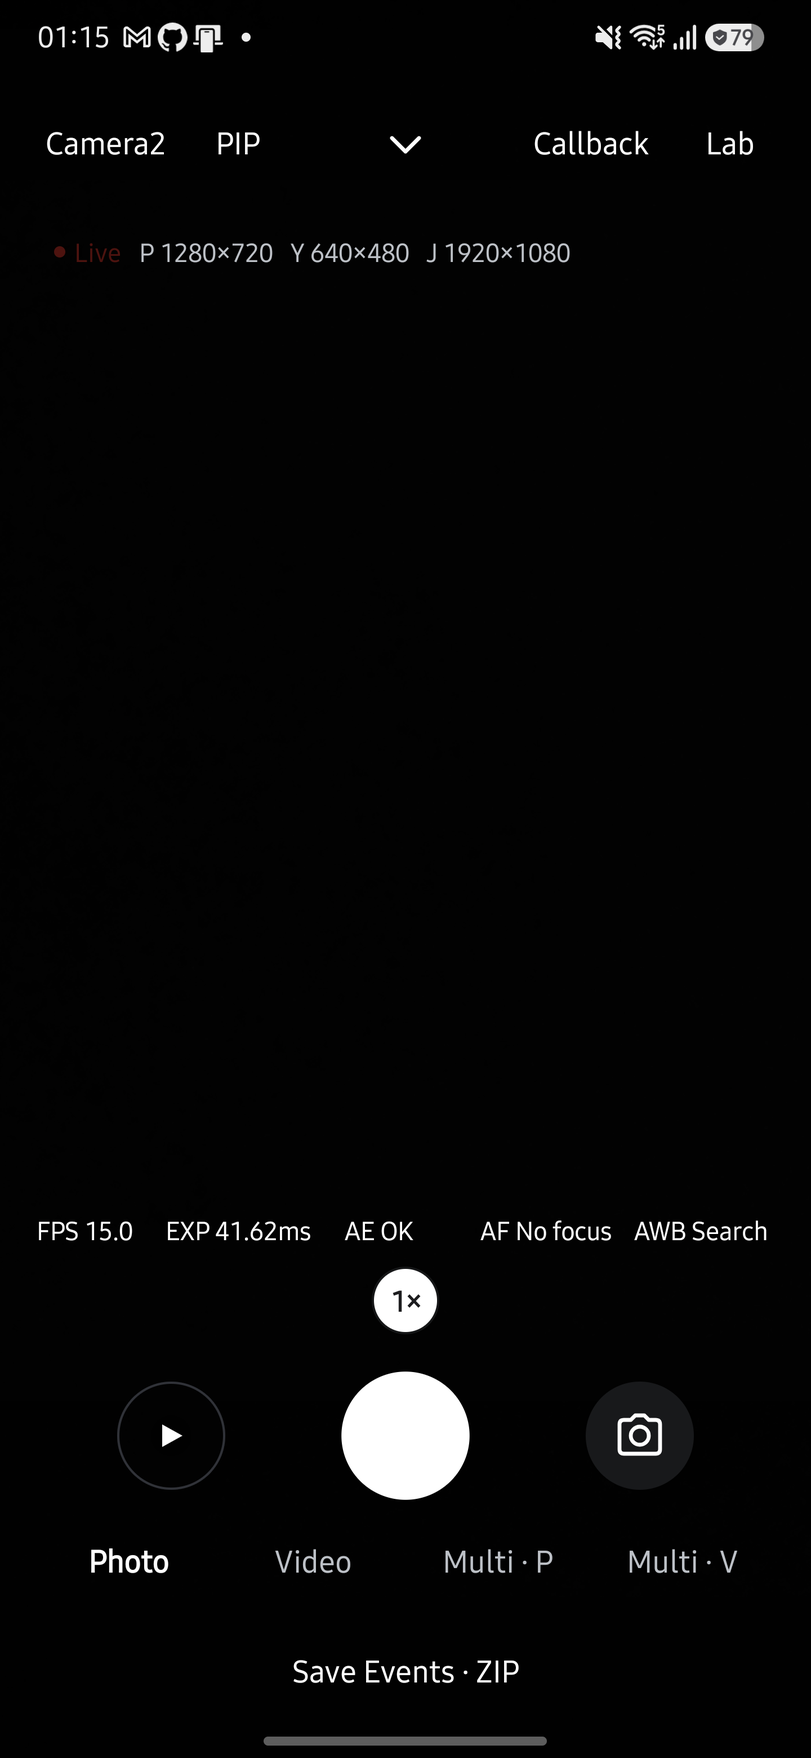
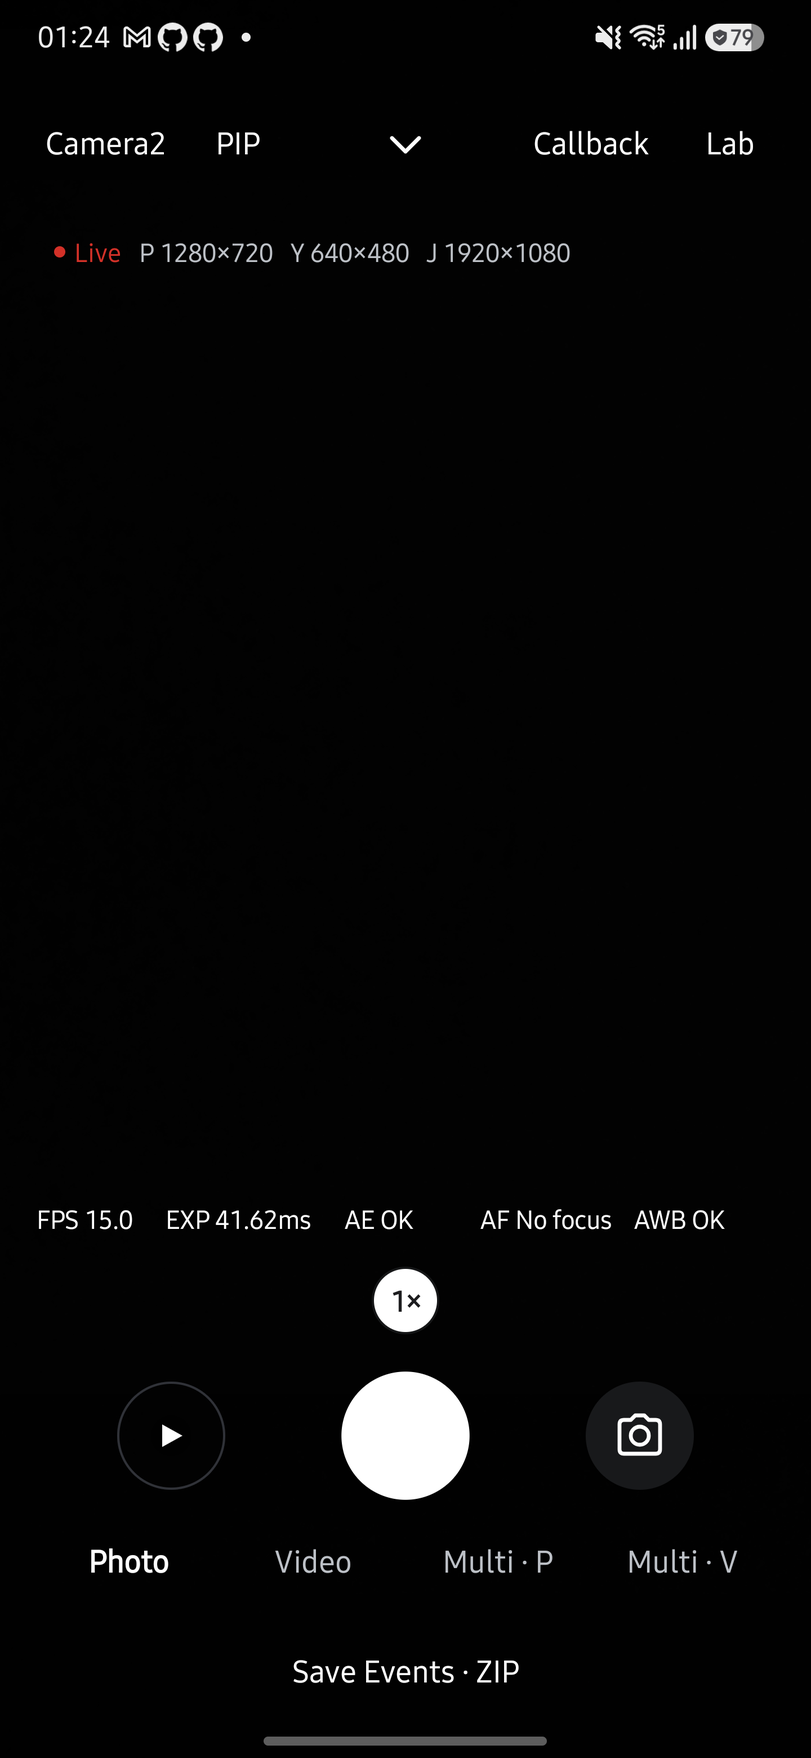
Balance spacing above the live zoom control

diff --git a/docs/architecture.html b/docs/architecture.html
@@ -131,7 +131,7 @@
 <summary>근거와 검토 정보</summary><ul>
 <li>근거 파일: <code>app/src/main/java/dev/halcamera/cli/CommandCoordinator.kt</code>, <code>tools/halcam/halcam/cli.py</code>, <code>app/src/main/java/dev/halcamera/MainActivity.kt</code>, <code>app/src/main/java/dev/halcamera/ConcurrentCameraActivity.kt</code>, <code>app/src/main/java/dev/halcamera/WorkbenchActivity.kt</code>, <code>app/src/main/java/dev/halcamera/camera/CameraEngine.kt</code>, <code>app/src/main/java/dev/halcamera/telemetry/Telemetry.kt</code>, <code>app/src/main/java/dev/halcamera/telemetry/FlightRecorder.kt</code>, <code>app/src/main/java/dev/halcamera/benchmark/domain/BenchmarkRunner.kt</code>, <code>app/src/main/java/dev/halcamera/benchmark/domain/RunAssembler.kt</code>, <code>app/src/main/java/dev/halcamera/benchmark/BenchmarkActivity.kt</code>, <code>app/src/main/java/dev/halcamera/benchmark/HistoryActivity.kt</code>, <code>app/src/main/java/dev/halcamera/benchmark/domain/RegressionDetector.kt</code></li>
 <li>근거 수준: 코드 확인</li>
-<li>검토 2026-10-10 @ <code>11271eec</code> · Codex source comparison; not independent human approval</li>
+<li>검토 2026-10-10 @ <code>102ac1dd</code> · Codex spacing/source comparison; not independent human approval</li>
 </ul>
 </details><!-- omm:end id=overview --><h2 id="전체-구조도">전체 구조도</h2>
 <p>화살표는 코드를 사용하는 방향입니다. 이벤트와 파일이 이동하는 순서는 <a href="#이벤트와-결과가-전달되는-경로">데이터 흐름</a>에서 확인하세요.</p>
@@ -272,7 +272,7 @@
 <summary>근거와 검토 정보</summary><ul>
 <li>근거 파일: <code>app/src/main/java/dev/halcamera/cli/CommandCoordinator.kt</code>, <code>app/src/main/java/dev/halcamera/cli/LiveController.kt</code>, <code>app/src/main/java/dev/halcamera/cli/BenchmarkController.kt</code>, <code>app/src/main/java/dev/halcamera/cli/CliLibrary.kt</code>, <code>app/src/main/java/dev/halcamera/MainCliBridge.kt</code>, <code>app/src/main/java/dev/halcamera/DualCliBridge.kt</code>, <code>app/src/main/java/dev/halcamera/camera/CameraEngine.kt</code>, <code>app/src/main/java/dev/halcamera/camera/BenchmarkRecorder.kt</code>, <code>app/src/main/java/dev/halcamera/benchmark/platform/EnvironmentProbe.kt</code>, <code>app/src/main/java/dev/halcamera/benchmark/BenchmarkActivity.kt</code>, <code>app/src/main/java/dev/halcamera/benchmark/HistoryActivity.kt</code>, <code>app/src/main/java/dev/halcamera/benchmark/domain/RunIndex.kt</code>, <code>app/src/main/java/dev/halcamera/benchmark/domain/BenchmarkCsv.kt</code>, <code>app/src/main/java/dev/halcamera/benchmark/platform/BenchmarkReport.kt</code>, <code>app/src/main/java/dev/halcamera/benchmark/domain/BenchmarkReportCodec.kt</code>, <code>app/src/main/java/dev/halcamera/telemetry/FlightRecorder.kt</code>, <code>app/src/main/java/dev/halcamera/MainActivity.kt</code>, <code>app/src/main/java/dev/halcamera/ConcurrentCameraActivity.kt</code>, <code>app/src/main/java/dev/halcamera/camera/ConcurrentSession.kt</code>, <code>app/src/main/java/dev/halcamera/camera/RecentMediaThumbnail.kt</code>, <code>app/src/main/java/dev/halcamera/ui/RecentMediaButton.kt</code>, <code>app/src/main/java/dev/halcamera/ui/Look.kt</code>, <code>app/src/main/java/dev/halcamera/cts/recording/BasicRecordingRules.kt</code>, <code>app/src/main/java/dev/halcamera/cts/CtsEntryActivity.kt</code>, <code>app/src/main/java/dev/halcamera/cts/vendored/VendoredCaseActivity.kt</code>, <code>app/src/main/java/dev/halcamera/cts/vendored/VendoredCtsListActivity.kt</code>, <code>app/src/main/java/dev/halcamera/cts/CtsCaseActivity.kt</code>, <code>app/src/main/java/dev/halcamera/cts/CtsCaseListActivity.kt</code>, <code>app/src/main/java/dev/halcamera/cts/suite/CtsChecklistActivity.kt</code>, <code>app/src/main/java/dev/halcamera/cts/suite/CtsSuiteRunActivity.kt</code>, <code>app/src/main/java/dev/halcamera/cts/suite/SuitePlan.kt</code>, <code>app/src/main/java/dev/halcamera/cts/suite/SuiteReport.kt</code>, <code>app/src/main/java/dev/halcamera/cts/CtsCatalog.kt</code>, <code>app/src/main/java/dev/halcamera/cts/CtsRunner.kt</code>, <code>app/src/main/java/dev/halcamera/cts/CameraCaseRunner.kt</code>, <code>app/src/main/java/dev/halcamera/cts/Camera2Ops.kt</code>, <code>app/src/main/java/dev/halcamera/cts/onoff/FastOnOffRules.kt</code>, <code>app/src/main/java/dev/halcamera/cts/switching/SwitchingRules.kt</code>, <code>app/src/main/java/dev/halcamera/cts/sizes/AllSizeOnOffRules.kt</code>, <code>app/src/main/java/dev/halcamera/cts/combination/StillPreviewCombinationRules.kt</code>, <code>app/src/main/java/dev/halcamera/cts/snapshot/VideoSnapshotRules.kt</code>, <code>app/src/main/java/dev/halcamera/CameraProbeActivity.kt</code>, <code>app/src/main/java/dev/halcamera/camera/CameraProbe.kt</code>, <code>app/src/main/java/dev/halcamera/camera/CameraProbeReader.kt</code></li>
 <li>근거 수준: 코드 확인</li>
-<li>검토 2026-10-10 @ <code>11271eec</code> · Codex source comparison; not independent human approval</li>
+<li>검토 2026-10-10 @ <code>102ac1dd</code> · Codex spacing/source comparison; not independent human approval</li>
 </ul>
 </details><!-- omm:end id=module-roles --><h2 id="주요-실행-흐름">주요 실행 흐름</h2>
 <!-- omm:begin id=runtime-flow --><p><strong>실행 실패는 러너 결과에서, 측정값의 차이는 이벤트와 계산 규칙에서 확인하세요.</strong> 벤치마크의 입력은 카메라 콜백 이벤트와 러너가 기록한 실행 시각입니다.</p>
@@ -583,7 +583,7 @@
 <summary>근거와 검토 정보</summary><ul>
 <li>근거 파일: <code>app/src/main/java/dev/halcamera/cli/CliProvider.kt</code>, <code>app/src/main/java/dev/halcamera/cli/CommandCoordinator.kt</code>, <code>app/src/main/java/dev/halcamera/cli/CommandStore.kt</code>, <code>app/src/main/java/dev/halcamera/camera/CameraEngine.kt</code>, <code>app/src/main/java/dev/halcamera/camera/ConcurrentSession.kt</code>, <code>app/src/main/java/dev/halcamera/camera/CameraEndpointResolver.kt</code>, <code>app/src/main/java/dev/halcamera/telemetry/IncidentExporter.kt</code>, <code>app/src/main/java/dev/halcamera/benchmark/domain/BenchmarkRunner.kt</code>, <code>app/src/main/java/dev/halcamera/benchmark/domain/RunValidity.kt</code>, <code>app/src/main/java/dev/halcamera/benchmark/domain/RegressionRules.kt</code>, <code>app/src/main/java/dev/halcamera/benchmark/platform/BenchmarkReport.kt</code>, <code>app/src/main/java/dev/halcamera/benchmark/domain/BenchmarkReportCodec.kt</code>, <code>app/src/main/java/dev/halcamera/benchmark/platform/BenchmarkStore.kt</code>, <code>app/src/main/java/dev/halcamera/benchmark/domain/BenchmarkIndex.kt</code>, <code>app/src/main/java/dev/halcamera/benchmark/domain/AtomicFiles.kt</code></li>
 <li>근거 수준: 코드 확인</li>
-<li>검토 2026-10-10 @ <code>11271eec</code> · Codex source comparison; not independent human approval</li>
+<li>검토 2026-10-10 @ <code>102ac1dd</code> · Codex spacing/source comparison; not independent human approval</li>
 </ul>
 </details><!-- omm:end id=constraints --><h2 id="변경-후-검증">변경 후 검증</h2>
 <p>Android 의존성이 없는 러너와 평가 로직은 JVM 단위 테스트로 확인할 수 있습니다. 저장소 루트에서 실행하세요.</p>
@@ -627,7 +627,7 @@
 <tr>
 <td>구조 원본 <code>overall-architecture</code></td>
 <td>최신</td>
-<td>검토 2026-10-10 @ <code>11271eec</code> · Codex source comparison; not independent human approval</td>
+<td>검토 2026-10-10 @ <code>102ac1dd</code> · Codex spacing/source comparison; not independent human approval</td>
 </tr>
 <tr>
 <td>구조 원본 <code>state-transitions</code></td>
@@ -652,12 +652,12 @@
 <tr>
 <td>원고 <code>overview</code></td>
 <td>최신</td>
-<td>검토 2026-10-10 @ <code>11271eec</code> · Codex source comparison; not independent human approval</td>
+<td>검토 2026-10-10 @ <code>102ac1dd</code> · Codex spacing/source comparison; not independent human approval</td>
 </tr>
 <tr>
 <td>원고 <code>module-roles</code></td>
 <td>최신</td>
-<td>검토 2026-10-10 @ <code>11271eec</code> · Codex source comparison; not independent human approval</td>
+<td>검토 2026-10-10 @ <code>102ac1dd</code> · Codex spacing/source comparison; not independent human approval</td>
 </tr>
 <tr>
 <td>원고 <code>runtime-flow</code></td>
@@ -667,7 +667,7 @@
 <tr>
 <td>원고 <code>constraints</code></td>
 <td>최신</td>
-<td>검토 2026-10-10 @ <code>11271eec</code> · Codex source comparison; not independent human approval</td>
+<td>검토 2026-10-10 @ <code>102ac1dd</code> · Codex spacing/source comparison; not independent human approval</td>
 </tr>
 </tbody></table>
 <!-- omm:end id=status --><p>표의 <code>최신</code>은 기록된 근거와 원고가 검토 이후 바뀌지 않았다는 뜻입니다. 모든 기기에서 동작을 검증했다는 뜻은 아닙니다.</p>

diff --git a/docs/engine.html b/docs/engine.html
@@ -170,7 +170,7 @@
 <summary>근거와 검토 정보</summary><ul>
 <li>근거 파일: <code>app/src/main/java/dev/halcamera/camera/Camera2Engine.kt</code>, <code>app/src/main/java/dev/halcamera/camera/Camera2StillCapture.kt</code>, <code>app/src/main/java/dev/halcamera/camera/Camera2LiveRecorder.kt</code>, <code>app/src/main/java/dev/halcamera/camera/TouchMeterRequests.kt</code>, <code>app/src/main/java/dev/halcamera/camera/CameraXEngine.kt</code>, <code>app/src/main/java/dev/halcamera/camera/CameraXPipSession.kt</code>, <code>app/src/main/java/dev/halcamera/camera/CameraXStillCapture.kt</code>, <code>app/src/main/java/dev/halcamera/camera/CameraXLiveRecorder.kt</code>, <code>app/src/main/java/dev/halcamera/camera/CameraXControls.kt</code>, <code>app/src/main/java/dev/halcamera/MainActivity.kt</code>, <code>app/src/main/java/dev/halcamera/camera/ConcurrentSession.kt</code>, <code>app/src/main/java/dev/halcamera/camera/LivePipSession.kt</code>, <code>app/src/main/java/dev/halcamera/ConcurrentCameraActivity.kt</code></li>
 <li>근거 수준: 코드 확인</li>
-<li>검토 2026-10-10 @ <code>11271eec</code> · Codex source comparison; not independent human approval</li>
+<li>검토 2026-10-10 @ <code>102ac1dd</code> · Codex spacing/source comparison; not independent human approval</li>
 </ul>
 </details><!-- omm:end id=comparison --><h3 id="기기에서-관찰한-차이">기기에서 관찰한 차이</h3>
 <p>Galaxy S25+에서 확인한 CameraX 관찰 결과와 검증 조건은 <a href="evidence.html#camerax-기기-관찰">Validation</a>에 있습니다.</p>
@@ -356,7 +356,7 @@
 <summary>근거와 검토 정보</summary><ul>
 <li>근거 파일: <code>app/src/main/java/dev/halcamera/camera/CameraEngine.kt</code>, <code>app/src/main/java/dev/halcamera/camera/Camera2Engine.kt</code>, <code>app/src/main/java/dev/halcamera/camera/CameraXEngine.kt</code>, <code>app/src/main/java/dev/halcamera/MainActivity.kt</code>, <code>app/src/main/java/dev/halcamera/ui/LiveControlBar.kt</code>, <code>app/src/main/java/dev/halcamera/ui/FocusRing.kt</code>, <code>app/src/main/java/dev/halcamera/camera/LiveControls.kt</code>, <code>app/src/main/java/dev/halcamera/benchmark/BenchmarkActivity.kt</code>, <code>app/src/main/java/dev/halcamera/benchmark/domain/StartCardPresenter.kt</code>, <code>app/src/main/java/dev/halcamera/cli/LiveController.kt</code>, <code>app/src/main/java/dev/halcamera/telemetry/Telemetry.kt</code></li>
 <li>근거 수준: 코드 확인</li>
-<li>검토 2026-10-10 @ <code>11271eec</code> · Codex source comparison; not independent human approval</li>
+<li>검토 2026-10-10 @ <code>102ac1dd</code> · Codex spacing/source comparison; not independent human approval</li>
 </ul>
 </details><!-- omm:end id=contract --></details><h2 id="camera2-엔진">Camera2 엔진</h2>
 <details id="camera2-internals" data-search-section>
@@ -675,7 +675,7 @@
 <summary>근거와 검토 정보</summary><ul>
 <li>근거 파일: <code>app/src/main/java/dev/halcamera/camera/Camera2Engine.kt</code>, <code>app/src/main/java/dev/halcamera/camera/LivePipSession.kt</code>, <code>app/src/main/java/dev/halcamera/camera/CameraOpenRetry.kt</code>, <code>app/src/main/java/dev/halcamera/camera/CameraReleaseWait.kt</code>, <code>app/src/main/java/dev/halcamera/camera/LiveStreamSettings.kt</code>, <code>app/src/main/java/dev/halcamera/camera/LiveStabilization.kt</code>, <code>app/src/main/java/dev/halcamera/camera/LiveStreamCapabilities.kt</code>, <code>app/src/main/java/dev/halcamera/camera/LiveSessionCheck.kt</code>, <code>app/src/main/java/dev/halcamera/camera/Camera2StillCapture.kt</code>, <code>app/src/main/java/dev/halcamera/camera/Camera2LiveRecorder.kt</code>, <code>app/src/main/java/dev/halcamera/camera/Camera2VideoSnapshot.kt</code>, <code>app/src/main/java/dev/halcamera/camera/VideoSnapshot.kt</code>, <code>app/src/main/java/dev/halcamera/camera/BenchmarkRecorder.kt</code>, <code>app/src/main/java/dev/halcamera/camera/PreviewBufferRelay.kt</code>, <code>app/src/main/java/dev/halcamera/camera/RecordingBufferRelay.kt</code>, <code>app/src/main/java/dev/halcamera/camera/StreamConfiguration.kt</code>, <code>app/src/main/java/dev/halcamera/camera/StillPair.kt</code>, <code>app/src/main/java/dev/halcamera/camera/YuvPacking.kt</code>, <code>app/src/main/java/dev/halcamera/camera/RawFrame.kt</code>, <code>app/src/main/java/dev/halcamera/camera/DngOutput.kt</code>, <code>app/src/main/java/dev/halcamera/camera/StillEncoding.kt</code>, <code>app/src/main/java/dev/halcamera/camera/MediaLibrary.kt</code>, <code>app/src/main/java/dev/halcamera/camera/LiveControls.kt</code>, <code>app/src/main/java/dev/halcamera/camera/LiveControlRequests.kt</code>, <code>app/src/main/java/dev/halcamera/camera/ManualControls.kt</code>, <code>app/src/main/java/dev/halcamera/camera/ManualControlRequests.kt</code>, <code>app/src/main/java/dev/halcamera/camera/TouchMeter.kt</code>, <code>app/src/main/java/dev/halcamera/camera/TouchMeterRequests.kt</code></li>
 <li>근거 수준: 코드 확인</li>
-<li>검토 2026-10-10 @ <code>11271eec</code> · Codex source comparison; not independent human approval</li>
+<li>검토 2026-10-10 @ <code>102ac1dd</code> · Codex spacing/source comparison; not independent human approval</li>
 </ul>
 </details><!-- omm:end id=camera2 --></details><h2 id="camerax-엔진">CameraX 엔진</h2>
 <details id="camerax-internals" data-search-section>
@@ -814,7 +814,7 @@
 <summary>근거와 검토 정보</summary><ul>
 <li>근거 파일: <code>app/src/main/java/dev/halcamera/camera/CameraXEngine.kt</code>, <code>app/src/main/java/dev/halcamera/camera/CameraXPipSession.kt</code>, <code>app/src/main/java/dev/halcamera/camera/CameraXStillCapture.kt</code>, <code>app/src/main/java/dev/halcamera/camera/CameraXLiveRecorder.kt</code>, <code>app/src/main/java/dev/halcamera/camera/CameraXVideoSnapshot.kt</code>, <code>app/src/main/java/dev/halcamera/camera/VideoSnapshot.kt</code>, <code>app/src/main/java/dev/halcamera/camera/CameraXControls.kt</code>, <code>app/src/main/java/dev/halcamera/camera/StillEncoding.kt</code>, <code>app/src/main/java/dev/halcamera/camera/YuvPacking.kt</code>, <code>app/src/main/java/dev/halcamera/camera/MediaLibrary.kt</code>, <code>app/src/main/java/dev/halcamera/camera/StreamConfiguration.kt</code>, <code>app/src/main/java/dev/halcamera/camera/LiveControls.kt</code>, <code>app/src/main/java/dev/halcamera/camera/TouchMeter.kt</code>, <code>app/build.gradle.kts</code></li>
 <li>근거 수준: 코드 확인</li>
-<li>검토 2026-10-10 @ <code>11271eec</code> · Codex source comparison; not independent human approval</li>
+<li>검토 2026-10-10 @ <code>102ac1dd</code> · Codex spacing/source comparison; not independent human approval</li>
 </ul>
 </details><!-- omm:end id=camerax --></details><h2 id="문서-검토-상태">문서 검토 상태</h2>
 <details id="detail-f9c230aa61" data-search-section>
@@ -832,27 +832,27 @@
 <tbody><tr>
 <td>구조 원본 <code>overall-architecture</code></td>
 <td>최신</td>
-<td>검토 2026-10-10 @ <code>11271eec</code> · Codex source comparison; not independent human approval</td>
+<td>검토 2026-10-10 @ <code>102ac1dd</code> · Codex spacing/source comparison; not independent human approval</td>
 </tr>
 <tr>
 <td>원고 <code>contract</code></td>
 <td>최신</td>
-<td>검토 2026-10-10 @ <code>11271eec</code> · Codex source comparison; not independent human approval</td>
+<td>검토 2026-10-10 @ <code>102ac1dd</code> · Codex spacing/source comparison; not independent human approval</td>
 </tr>
 <tr>
 <td>원고 <code>camera2</code></td>
 <td>최신</td>
-<td>검토 2026-10-10 @ <code>11271eec</code> · Codex source comparison; not independent human approval</td>
+<td>검토 2026-10-10 @ <code>102ac1dd</code> · Codex spacing/source comparison; not independent human approval</td>
 </tr>
 <tr>
 <td>원고 <code>camerax</code></td>
 <td>최신</td>
-<td>검토 2026-10-10 @ <code>11271eec</code> · Codex source comparison; not independent human approval</td>
+<td>검토 2026-10-10 @ <code>102ac1dd</code> · Codex spacing/source comparison; not independent human approval</td>
 </tr>
 <tr>
 <td>원고 <code>comparison</code></td>
 <td>최신</td>
-<td>검토 2026-10-10 @ <code>11271eec</code> · Codex source comparison; not independent human approval</td>
+<td>검토 2026-10-10 @ <code>102ac1dd</code> · Codex spacing/source comparison; not independent human approval</td>
 </tr>
 </tbody></table>
 <!-- omm:end id=status --><p>표의 <code>최신</code>은 기록된 근거와 원고가 검토 이후 바뀌지 않았다는 뜻입니다. 모든 기기에서 동작을 검증했다는 뜻은 아닙니다.</p>

diff --git a/docs/evidence.html b/docs/evidence.html
@@ -136,7 +136,7 @@
 <li>근거 파일: <code>app/src/main/java/dev/halcamera/camera/CameraXControls.kt</code>, <code>app/src/main/java/dev/halcamera/camera/CameraXStillCapture.kt</code>, <code>app/src/main/java/dev/halcamera/camera/CameraXLiveRecorder.kt</code></li>
 <li>기기 검증: <code>V-002</code></li>
 <li>근거 수준: 기기 검증</li>
-<li>검토 2026-10-10 @ <code>11271eec</code> · Codex source comparison; not independent human approval</li>
+<li>검토 2026-10-10 @ <code>102ac1dd</code> · Codex spacing/source comparison; not independent human approval</li>
 </ul>
 </details><!-- omm:end id=device-notes --><h2 id="문서-검토-상태">문서 검토 상태</h2>
 <p>아래 표는 이 페이지에 연결된 CameraX 기기 관찰 원고의 검토 상태입니다. 위 CTS 요약을 포함한 수동 본문의 검토 범위는 PR 기록에서 확인합니다.</p>
@@ -154,12 +154,12 @@
 <tbody><tr>
 <td>구조 원본 <code>overall-architecture</code></td>
 <td>최신</td>
-<td>검토 2026-10-10 @ <code>11271eec</code> · Codex source comparison; not independent human approval</td>
+<td>검토 2026-10-10 @ <code>102ac1dd</code> · Codex spacing/source comparison; not independent human approval</td>
 </tr>
 <tr>
 <td>원고 <code>device-notes</code></td>
 <td>최신</td>
-<td>검토 2026-10-10 @ <code>11271eec</code> · Codex source comparison; not independent human approval</td>
+<td>검토 2026-10-10 @ <code>102ac1dd</code> · Codex spacing/source comparison; not independent human approval</td>
 </tr>
 </tbody></table>
 <!-- omm:end id=status --><p><strong>다음 단계:</strong> 구현 구조는 <a href="architecture.html">Architecture</a>, 과거의 선택은 <a href="_inputs/decisions.html">설계 결정 원문</a>에서 확인하세요.</p>

diff --git a/app/src/main/java/dev/halcamera/ui/LiveMeasurementView.kt b/app/src/main/java/dev/halcamera/ui/LiveMeasurementView.kt
@@ -31,6 +31,8 @@ class LiveMeasurementView(context: Context, private val dual: Boolean = false) :
 
     init {
         orientation = VERTICAL
+        // Match the visible gap below the zoom circle without moving the capture controls.
+        setPadding(0, 0, 0, Look.dp(context, 5))
         importantForAccessibility = View.IMPORTANT_FOR_ACCESSIBILITY_YES
         cells.forEach { row.addView(it, LayoutParams(0, -2)) }
         addView(row, LayoutParams(-1, -2)); addView(settings, LayoutParams(-1, -2))

diff --git a/.omm/overall-architecture/screens/expert-screen/diagnostics-panel/description.md b/.omm/overall-architecture/screens/expert-screen/diagnostics-panel/description.md
@@ -17,7 +17,7 @@ LiveReadings는 프리뷰의 수치와 활성 설정과 앱의 CPU·PSS·Thermal
 
 그래프는 상단의 가로 눈금과 0ms 기준선만 남기고, 도착점과 분리한 오른쪽 고정 열에 ms 값을 정렬합니다. 글자·눈금·도착점의 어두운 외곽선은 밝은 프리뷰에서도 대비를 유지합니다. 실제 자동 고정 중에만 프레임 번호 앞에 일시정지 표시를 그리며, 대기 중에도 그 자리의 폭을 유지합니다. 라벨은 시스템 글꼴, 숫자는 고정폭 글꼴이며 행 간격은 24sp입니다. 배경 박스와 불필요한 세로 격자는 두지 않습니다. 행 수가 달라질 때만 배치를 다시 요청하며, 표시 값과 축이 같으면 다시 그리지 않습니다. 하드웨어 가속을 사용하고 MainActivity의 100ms 주기마다 표본을 계산합니다. CPU·PSS·Thermal 표본의 시스템 조회는 I/O 작업 스레드에서 실행하여 프리뷰의 UI 스레드를 막지 않습니다.
 
-LiveMeasurementView는 FPS·EXP·AE·AF·AWB를 각 항목의 최대 문구 폭을 예약한 다섯 칸에 왼쪽 정렬합니다. 칸 사이 간격은 8dp이며 전체 묶음은 화면 중앙에 배치합니다. 기본 글자 크기는 12sp이며 화면 폭과 가장 긴 상태 문구를 기준으로 한 번 맞춥니다. AE·AF·AWB 문구는 Search, Scan, Focus처럼 간결하게 표시합니다. AE·AF·AWB 상태가 바뀌어도 각 칸의 시작 위치·폭·글자 크기는 바뀌지 않습니다. 칸을 넘는 예외적인 값은 말줄임으로 처리하여 겹치지 않습니다. EXP는 관측 노출 시간이며 1초 미만은 ms, 그 이상은 s로 표시합니다. ISO와 EV는 측정 행에서 제외합니다. 아래에는 Flash, AE/AF Lock, AEB, 수동 모드·초점·WB 중 활성 설정만 표시하며 Manual 선택창과 원본 텔레메트리는 유지합니다.
+LiveMeasurementView는 FPS·EXP·AE·AF·AWB를 각 항목의 최대 문구 폭을 예약한 다섯 칸에 왼쪽 정렬합니다. 칸 사이 간격은 8dp이며 전체 묶음은 화면 중앙에 배치합니다. 정보 뷰 아래에는 5dp 여백을 두어 줌 버튼과의 시각적 간격을 확보하고 줌·촬영 버튼의 위치는 유지합니다. 기본 글자 크기는 12sp이며 화면 폭과 가장 긴 상태 문구를 기준으로 한 번 맞춥니다. AE·AF·AWB 문구는 Search, Scan, Focus처럼 간결하게 표시합니다. AE·AF·AWB 상태가 바뀌어도 각 칸의 시작 위치·폭·글자 크기는 바뀌지 않습니다. 칸을 넘는 예외적인 값은 말줄임으로 처리하여 겹치지 않습니다. EXP는 관측 노출 시간이며 1초 미만은 ms, 그 이상은 s로 표시합니다. ISO와 EV는 측정 행에서 제외합니다. 아래에는 Flash, AE/AF Lock, AEB, 수동 모드·초점·WB 중 활성 설정만 표시하며 Manual 선택창과 원본 텔레메트리는 유지합니다.
 
 PIP에서는 합성기에 입력된 각 SurfaceTexture의 프레임 수신을 관측합니다. 메인 Service ID의 TotalCaptureResult에 포함된 Physical 결과는 센서별 `Meta (Phy)` 행으로 표시하며 별도 HAL 콜백인 것처럼 취급하지 않습니다. Physical 프리뷰는 해당 센서 타임스탬프와 요청 프레임을 연결합니다. 별도 Service ID의 결과는 메인 Service ID 그래프에 섞지 않습니다. PIP의 `Jpeg` 행은 합성 이미지 생성 시각이며 HAL JPEG 수신과 구분합니다.
 

diff --git a/docs/validation/live-awb.md b/docs/validation/live-awb.md
@@ -25,3 +25,9 @@
 - 문서 회귀 검사 33개를 통과했습니다.
 - 공통 formatter와 view를 확장했습니다. 화면마다 상태 변환을 복제하지 않았으며, 열 수와 간격 계산은 예약된 항목 수를 따릅니다.
 - AWB 네 상태, 누락·알 수 없는 값, AE·AF·AWB 조합의 고정 열 순서를 검사했습니다.
+
+## 줌 버튼과의 간격 조정
+
+같은 날 정보 뷰 아래에 5dp를 추가했습니다. 1440×3120 기기 화면에서 정보 글자 아래쪽과 줌 원 위쪽의 간격은 약 52px에서 72px로 바뀌었습니다. 줌 원 아래쪽과 Photo 촬영 원 위쪽도 약 72px입니다. 글자 크기와 버튼 좌표는 유지했습니다. Camera2·CameraX Photo와 CameraX Video에서 정보 열 중심이 y=2185에서 2165로 이동한 것을 확인했습니다. 위 사진은 간격 조정 후 화면입니다.
+
+JVM 746개, lintDebug, assembleRelease를 다시 통과했습니다.
